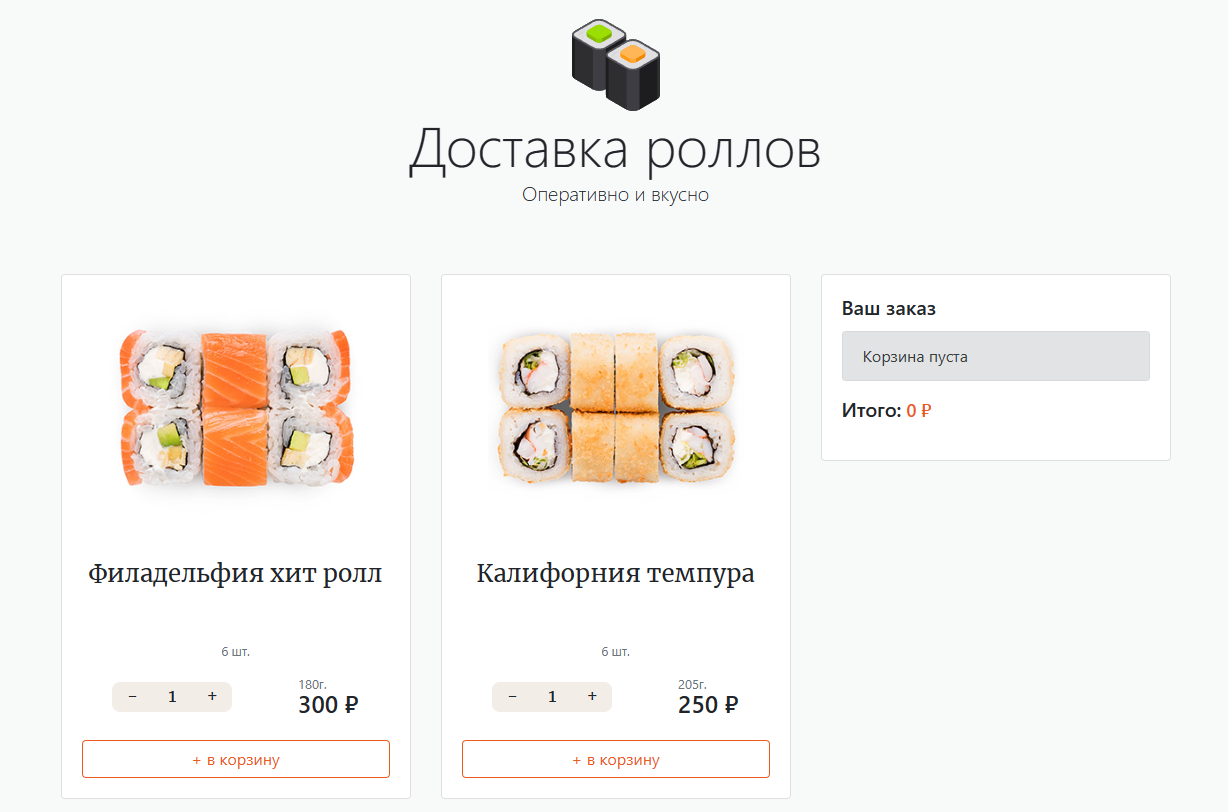
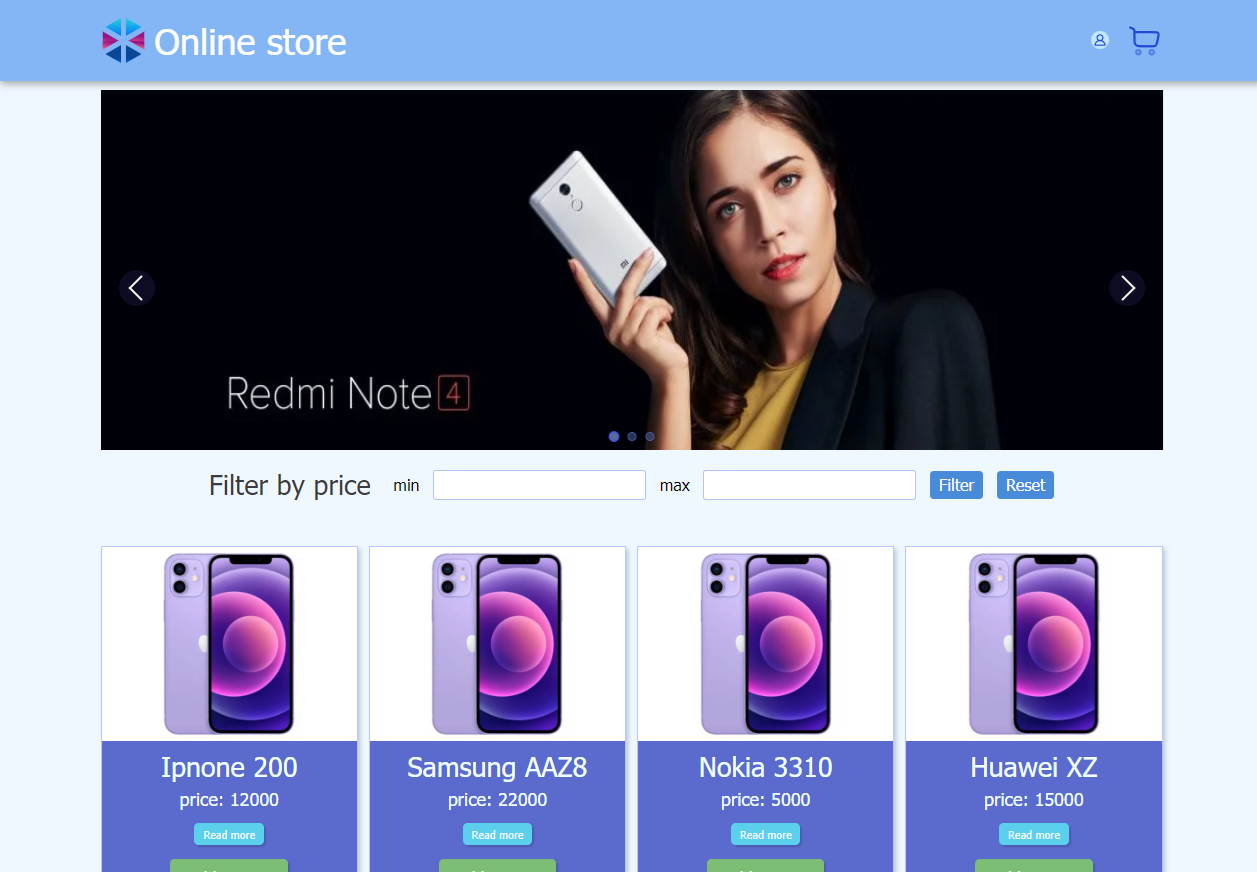
Add files via upload

diff --git a/index.html b/index.html
@@ -153,9 +153,9 @@
                                 </svg></button>
                             <div class="portfolio__desc">
                                 <h2 class="portfolio__title title-page">Portfolio</h2>
-                                <P class="portfolio__subtitle txt-page">Landing pages made using html, css/sass, js.
-                                    Adapted
-                                    to all popular devices.</P>
+                                <P class="portfolio__subtitle txt-page">Various projects are presented here, from
+                                    landing pages adapted to any popular devices to projects made using the React
+                                    framework.</P>
                             </div>
                             <button class="portfolio__arrow portfolio__button-next">
                                 <svg viewBox="0 0 448 512">
@@ -173,12 +173,13 @@
                         </div>
                         <div class="portfolio__slider" data-aos="flip-right" data-aos-duration="1000">
                             <div class="portfolio__slider-line">
+                                <a target="_blank" href="https://dmitriy-lesnick.github.io/online-shop//"
+                                    class="portfolio__slide txt-page"><img class="portfolio__img"
+                                        src="img/portfolio/shop.png" alt="portfolio waxom landing">Online shop - React,
+                                    vite, ts.</a>
                                 <a target="_blank" href="https://dmitriy-lesnick.github.io/My-first-project__Waxom/"
                                     class="portfolio__slide txt-page"><img class="portfolio__img"
                                         src="img/portfolio/waxom.png" alt="portfolio waxom landing">Waxom - Homepage</a>
-                                <a target="_blank" href="https://dmitriy-lesnick.github.io/rolli-shop/"
-                                    class="portfolio__slide txt-page"><img class="portfolio__img"
-                                        src="img/portfolio/shop.png" alt="portfolio reebok"> Sushi - Shop</a>
                                 <a target="_blank" href="https://dmitriy-lesnick.github.io/FastFood-Landing/"
                                     class="portfolio__slide txt-page"><img class="portfolio__img"
                                         src="img/portfolio/fast-food.png" alt="potfolio Fat Food Landing">Fast -
